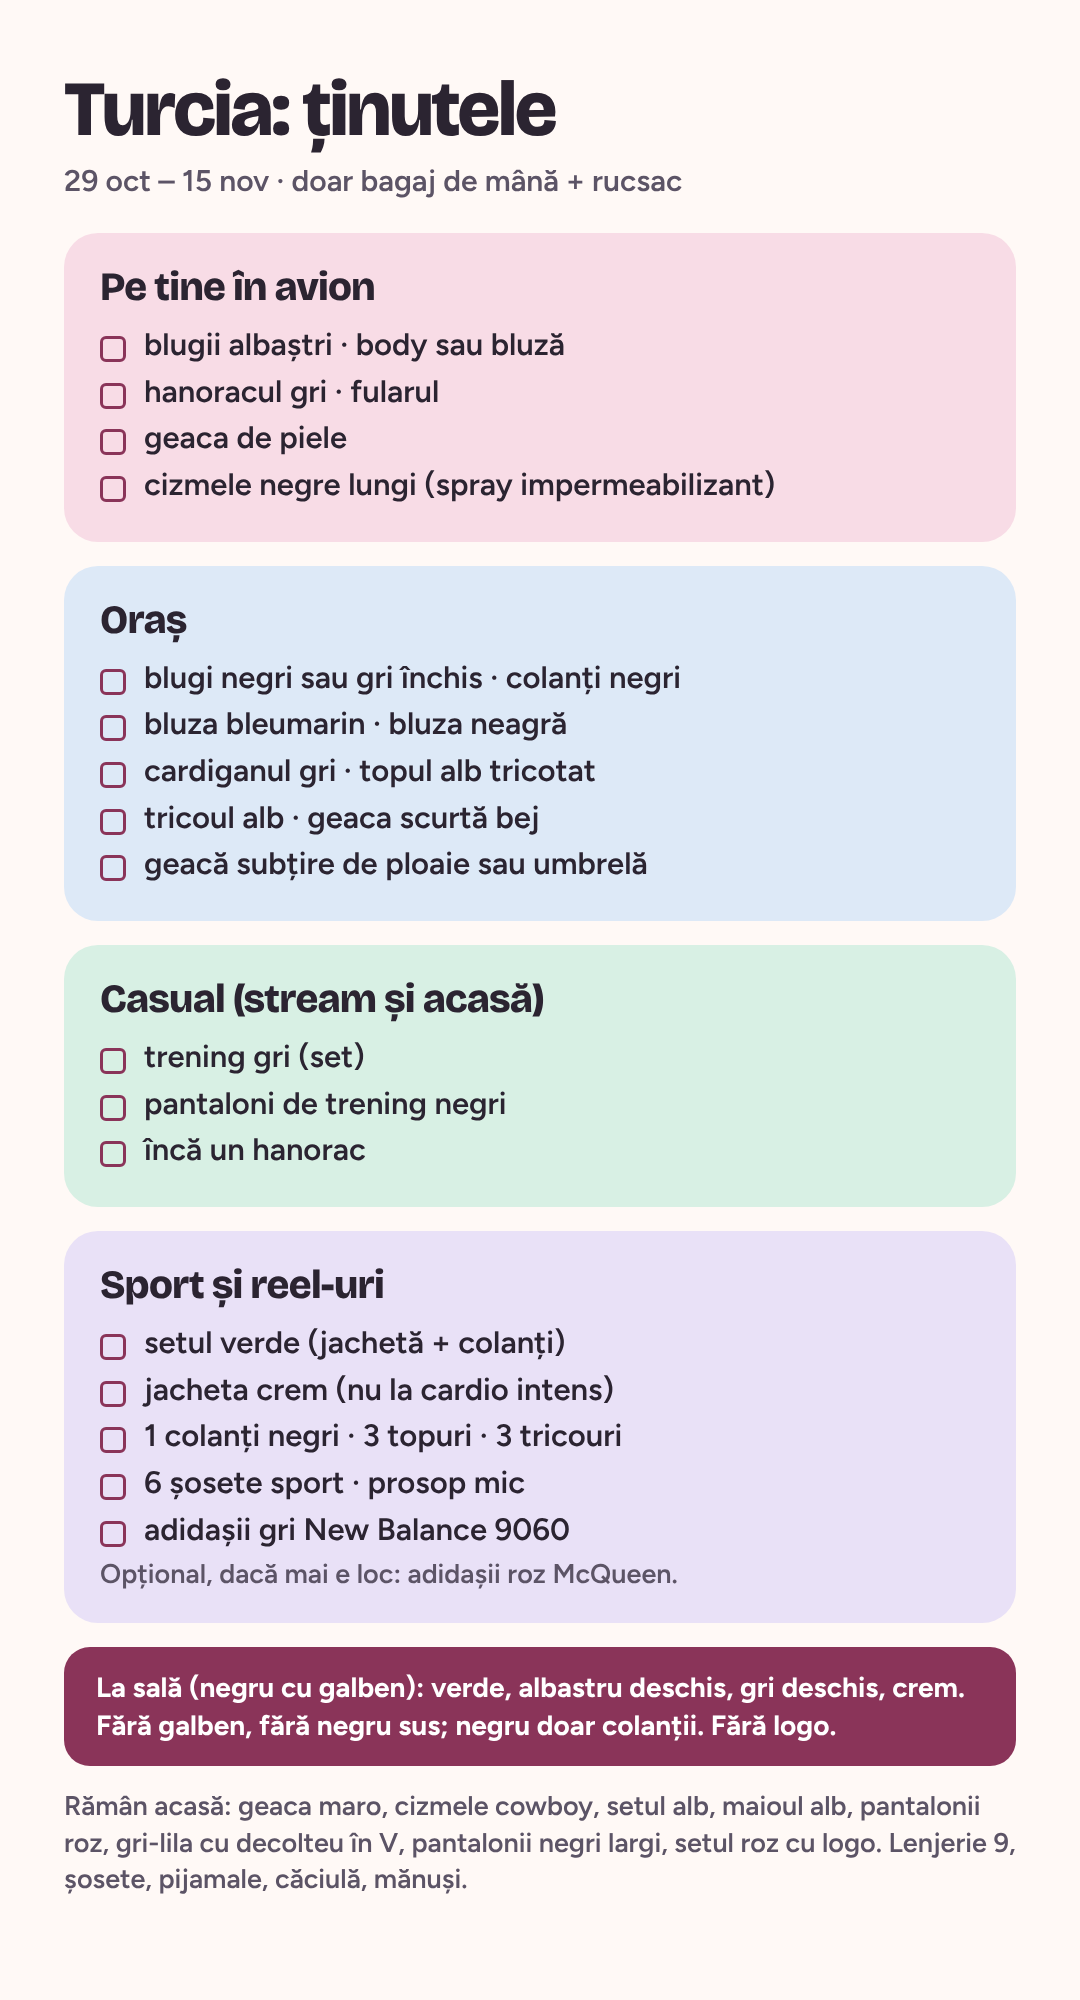
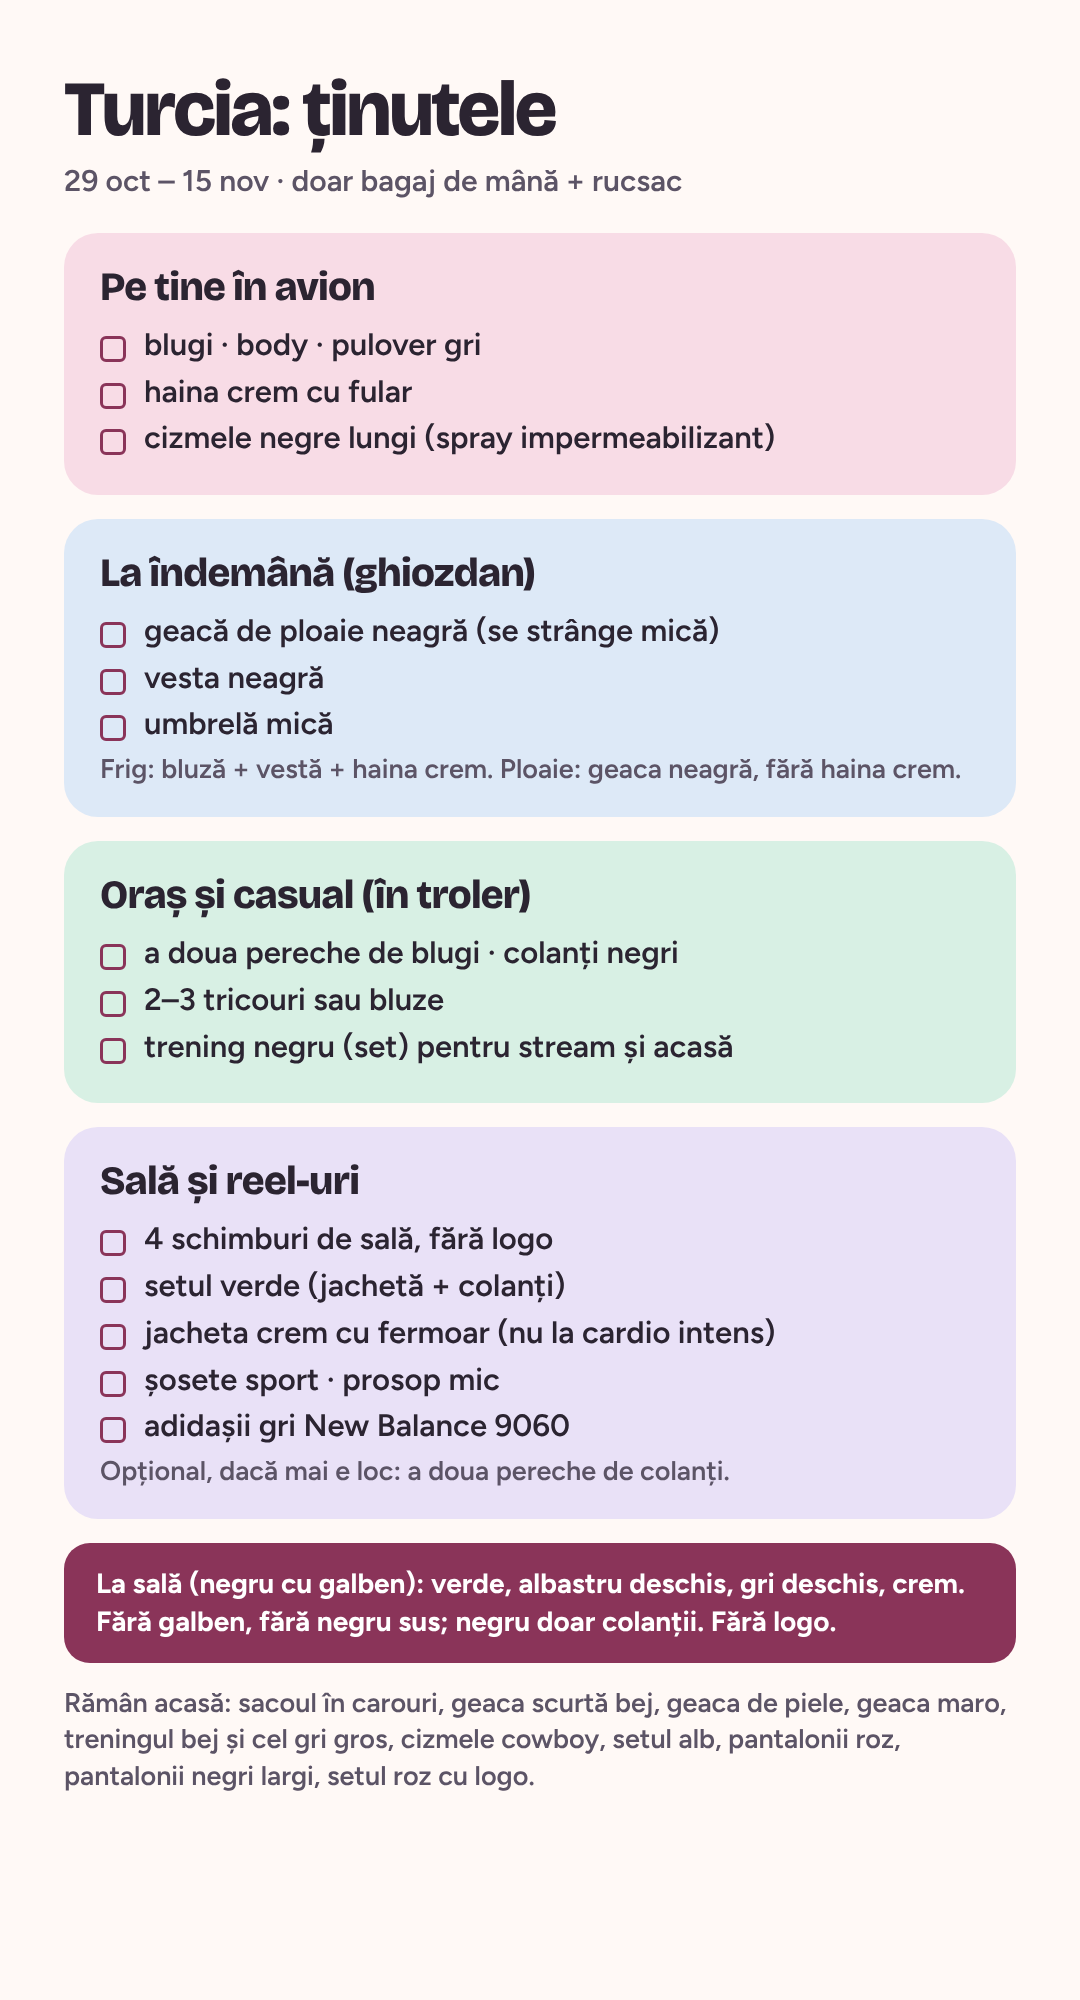
Imaginea cu ținutele pentru Turcia, actualizată
Claude-Session: https://claude.ai/code/session_01AYCYtwFQ1HqKG8gwud9c92

Changed region(s): [[0.0611, 0.155, 0.9472, 0.961]]

diff --git a/brand/turcia/build_outfits.py b/brand/turcia/build_outfits.py
@@ -19,12 +19,12 @@ h1{font-family:'Bricolage Grotesque',sans-serif;font-weight:800;letter-spacing:-
 def box(bg, title, items, note=''):
     return '<div class="box" style="background:var(--%s)"><h2>%s</h2><ul>%s</ul>%s</div>' % (bg, title, ''.join('<li>%s</li>' % i for i in items), ('<div class="note">%s</div>' % note) if note else '')
 body = ('<div class="s"><h1>Turcia: ținutele</h1><p class="sub">29 oct – 15 nov · doar bagaj de mână + rucsac</p>'
- + box('pink', 'Pe tine în avion', ['blugii albaștri · body sau bluză', 'hanoracul gri · fularul', 'geaca de piele', 'cizmele negre lungi (spray impermeabilizant)'])
- + box('blue', 'Oraș', ['blugi negri sau gri închis · colanți negri', 'bluza bleumarin · bluza neagră', 'cardiganul gri · topul alb tricotat', 'tricoul alb · geaca scurtă bej', 'geacă subțire de ploaie sau umbrelă'])
- + box('mint', 'Casual (stream și acasă)', ['trening gri (set)', 'pantaloni de trening negri', 'încă un hanorac'])
- + box('lilac', 'Sport și reel-uri', ['setul verde (jachetă + colanți)', 'jacheta crem (nu la cardio intens)', '1 colanți negri · 3 topuri · 3 tricouri', '6 șosete sport · prosop mic', 'adidașii gri New Balance 9060'], 'Opțional, dacă mai e loc: adidașii roz McQueen.')
+ + box('pink', 'Pe tine în avion', ['blugi · body · pulover gri', 'haina crem cu fular', 'cizmele negre lungi (spray impermeabilizant)'])
+ + box('blue', 'La îndemână (ghiozdan)', ['geacă de ploaie neagră (se strânge mică)', 'vesta neagră', 'umbrelă mică'], 'Frig: bluză + vestă + haina crem. Ploaie: geaca neagră, fără haina crem.')
+ + box('mint', 'Oraș și casual (în troler)', ['a doua pereche de blugi · colanți negri', '2–3 tricouri sau bluze', 'trening negru (set) pentru stream și acasă'])
+ + box('lilac', 'Sală și reel-uri', ['4 schimburi de sală, fără logo', 'setul verde (jachetă + colanți)', 'jacheta crem cu fermoar (nu la cardio intens)', 'șosete sport · prosop mic', 'adidașii gri New Balance 9060'], 'Opțional, dacă mai e loc: a doua pereche de colanți.')
  + '<div class="rule">La sală (negru cu galben): verde, albastru deschis, gri deschis, crem. Fără galben, fără negru sus; negru doar colanții. Fără logo.</div>'
- + '<p class="note" style="margin-top:22px">Rămân acasă: geaca maro, cizmele cowboy, setul alb, maioul alb, pantalonii roz, gri-lila cu decolteu în V, pantalonii negri largi, setul roz cu logo. Lenjerie 9, șosete, pijamale, căciulă, mănuși.</p></div>')
+ + '<p class="note" style="margin-top:22px">Rămân acasă: sacoul în carouri, geaca scurtă bej, geaca de piele, geaca maro, treningul bej și cel gri gros, cizmele cowboy, setul alb, pantalonii roz, pantalonii negri largi, setul roz cu logo.</p></div>')
 HTML = '<!doctype html><html><head><meta charset="utf-8"><link href="https://fonts.googleapis.com/css2?family=Bricolage+Grotesque:opsz,wght@12..96,800&family=Figtree:wght@600;700&display=swap" rel="stylesheet"><style>' + CSS + '</style></head><body>' + body + '</body></html>'
 JS = r"""
 const { chromium } = require('playwright'); const [html, out] = JSON.parse(process.argv[2]);
